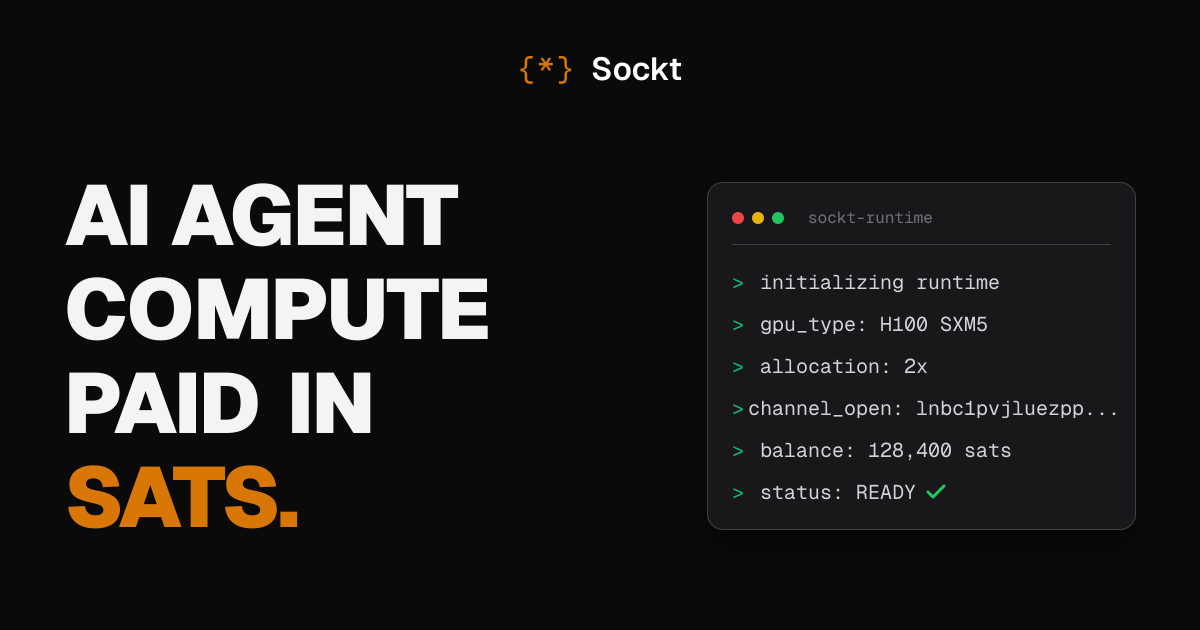
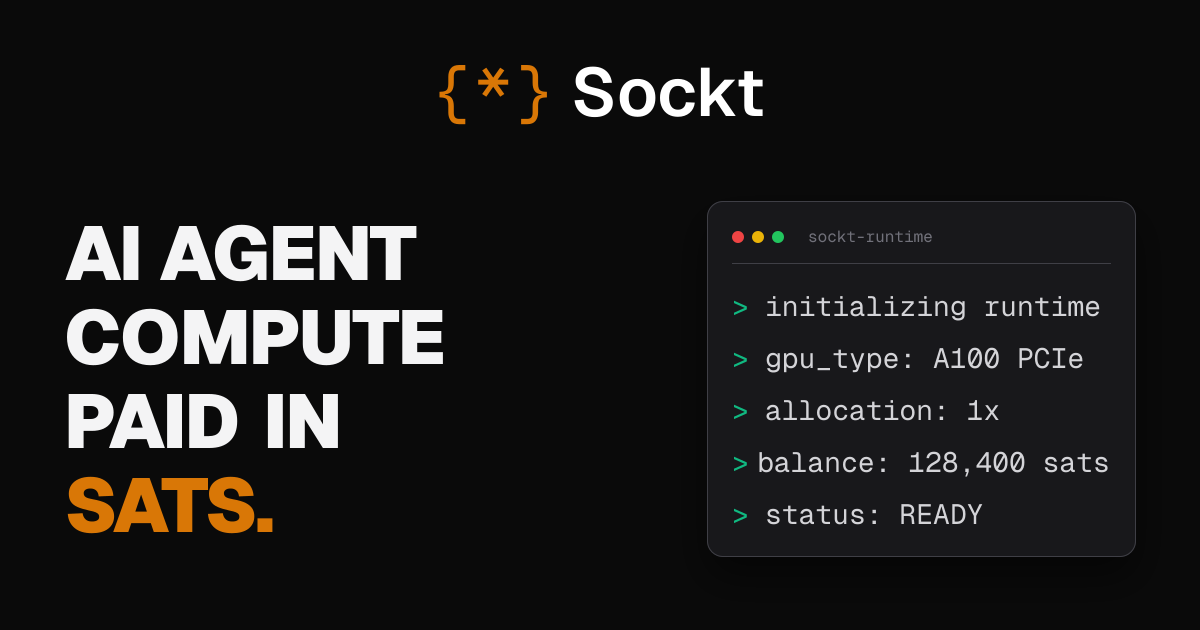
refactor: update GPU type and allocation details in HeroConsole and OG image generation

diff --git a/scripts/generate-og.tsx b/scripts/generate-og.tsx
@@ -42,7 +42,7 @@ async function main() {
                     style={{
                         display: 'flex',
                         alignItems: 'center',
-                        fontSize: '32px',
+                        fontSize: '68px',
                         fontWeight: 600,
                         color: '#ffffff',
                     }}
@@ -75,7 +75,7 @@ async function main() {
                         style={{
                             display: 'flex',
                             flexDirection: 'column',
-                            fontSize: '85px',
+                            fontSize: '76px',
                             fontWeight: 900,
                             lineHeight: 1.1,
                             letterSpacing: '-0.02em',
@@ -136,21 +136,18 @@ async function main() {
                             display: 'flex',
                             flexDirection: 'column',
                             fontFamily: 'Geist Mono',
-                            fontSize: '20px',
+                            fontSize: '28px',
                             color: '#d4d4d8',
                             gap: '16px',
                         }}
                     >
                         <div style={{ display: 'flex' }}><span style={{ color: '#10b981', marginRight: '16px' }}>&gt;</span> initializing runtime</div>
-                        <div style={{ display: 'flex' }}><span style={{ color: '#10b981', marginRight: '16px' }}>&gt;</span> gpu_type: H100 SXM5</div>
-                        <div style={{ display: 'flex' }}><span style={{ color: '#10b981', marginRight: '16px' }}>&gt;</span> allocation: 2x</div>
-                        <div style={{ display: 'flex' }}><span style={{ color: '#10b981', marginRight: '16px' }}>&gt;</span> channel_open: lnbc1pvjluezpp...</div>
+                        <div style={{ display: 'flex' }}><span style={{ color: '#10b981', marginRight: '16px' }}>&gt;</span> gpu_type: A100 PCIe</div>
+                        <div style={{ display: 'flex' }}><span style={{ color: '#10b981', marginRight: '16px' }}>&gt;</span> allocation: 1x</div>
                         <div style={{ display: 'flex' }}><span style={{ color: '#10b981', marginRight: '16px' }}>&gt;</span> balance: 128,400 sats</div>
                         <div style={{ display: 'flex', alignItems: 'center' }}>
                             <span style={{ color: '#10b981', marginRight: '16px' }}>&gt;</span> status: READY
-                            <svg width="24" height="24" viewBox="0 0 24 24" fill="none" stroke="#22c55e" strokeWidth="3" strokeLinecap="round" strokeLinejoin="round" style={{ marginLeft: '8px' }}>
-                                <polyline points="20 6 9 17 4 12"></polyline>
-                            </svg>
+
                         </div>
                     </div>
                 </div>

diff --git a/components/hero/HeroConsole.tsx b/components/hero/HeroConsole.tsx
@@ -5,11 +5,10 @@ import { gsap, ScrollTrigger } from '@/lib/gsap';
 
 const LINES = [
   '> initializing runtime',
-  '> gpu_type: H100 SXM5',
-  '> allocation: 2x',
-  '> channel_open: lnbc1pvjluezpp...',
+  '> gpu_type: A100 PCIe',
+  '> allocation: 1x',
   '> balance: 128,400 sats',
-  '> status: READY ✓',
+  '> status: READY',
 ];
 
 export default function HeroConsole() {
